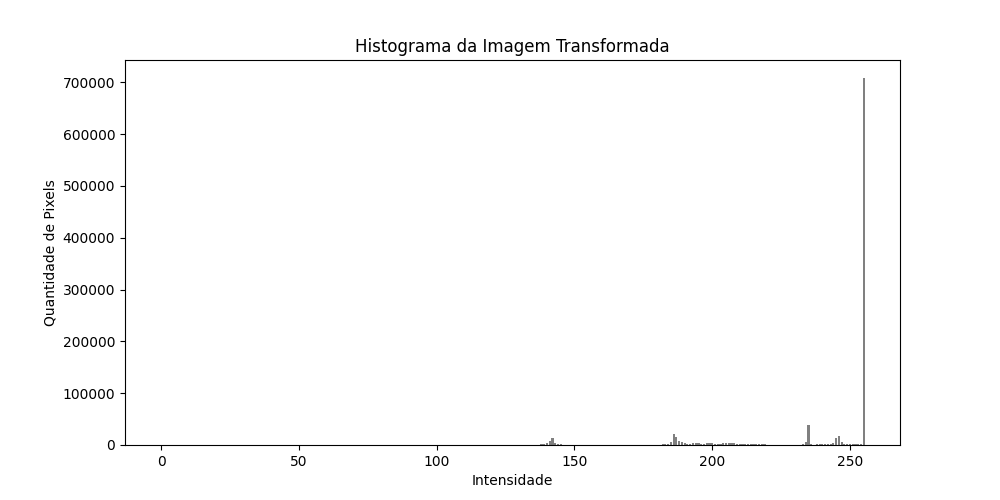
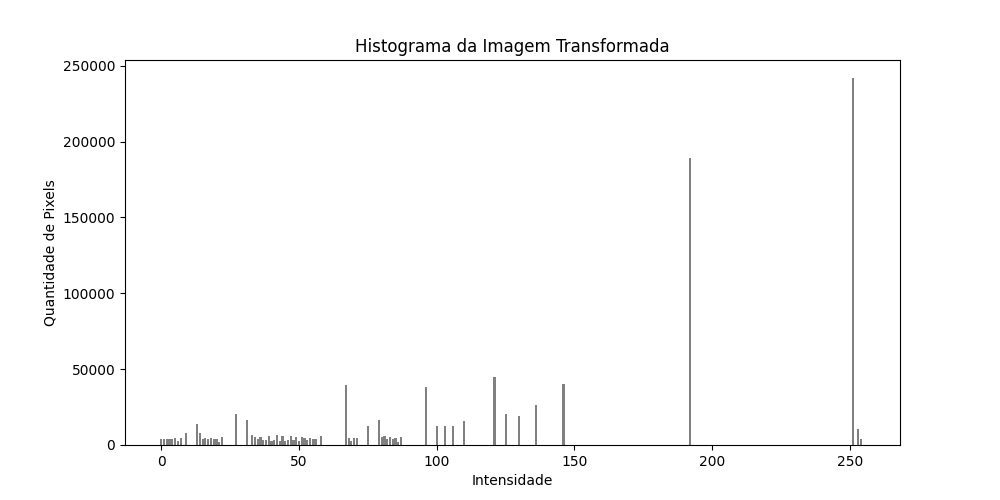
trab feito

diff --git a/Exercício 5/main.py b/Exercício 5/main.py
@@ -7,12 +7,13 @@ import sys
 INPUT_IMAGE = 'akari.png'
 OUTPUT_FOLDER = 'outputs'
 
-CONTRAST = 1
-BRIGHTNESS = 40
+CONTRAST = 1.01
+BRIGHTNESS = 0
+GRAY_LEVELS = 256
 
 
 def build_histogram(image: np.ndarray) -> np.ndarray:
-    histogram = np.zeros(256, int)
+    histogram = np.zeros(GRAY_LEVELS, int)
 
     height, width = image.shape
 
@@ -27,49 +28,88 @@ def plot_histogram(image: np.ndarray, output: str = None, text: str = None):
     histogram = build_histogram(image)
 
     plt.figure(figsize=(10, 5))
-    plt.bar(range(256), histogram, color='gray')
+    plt.bar(range(GRAY_LEVELS), histogram, color='gray')
     plt.xlabel('Intensidade')
     plt.ylabel('Quantidade de Pixels')
     plt.title(text)
     plt.savefig(f'{OUTPUT_FOLDER}/{output}.png')
 
 
-def transform_image(image: np.ndarray, contrast: float, brightness: int) -> np.ndarray:
+# def transform_image(image: np.ndarray, contrast: float, brightness: int) -> np.ndarray:
+#     height, width = image.shape
+#
+#     for x in range(height):
+#         for y in range(width):
+#             new_value = contrast * image[x][y] + brightness
+#             if new_value > GRAY_LEVELS - 1:
+#                 new_value = GRAY_LEVELS - 1
+#             image[x][y] = new_value
+#
+#     return image
+#
+#
+# def plot_transform_function(output: str, text: str, contrast: float, brightness: int):
+#     x = np.arange(GRAY_LEVELS)
+#     y = contrast * x + brightness
+#     for i in range(GRAY_LEVELS):
+#         y[i] = int(y[i])
+#         if y[i] > GRAY_LEVELS - 1:
+#             y[i] = GRAY_LEVELS - 1
+#
+#     plt.figure(figsize=(10, 5))
+#     plt.plot(x, y, color='gray')
+#     plt.xlabel('Níveis de cinza')
+#     plt.ylabel('Intensidade')
+#     plt.title(text)
+#     plt.savefig(f'{OUTPUT_FOLDER}/{output}.png')
+
+
+def build_transform_map(image: np.ndarray) -> np.ndarray:
+    histogram = build_histogram(image)
     height, width = image.shape
 
-    for x in range(height):
-        for y in range(width):
-            new_value = contrast * image[x][y] + brightness
-            if new_value > 255:
-                new_value = 255
-            image[x][y] = new_value
+    p_values = (histogram / (height * width))
 
-    return image
+    s_values = np.zeros(GRAY_LEVELS, float)
+
+    for i in range(GRAY_LEVELS):
+        s_values[i] = sum(p_values[:i + 1])
+
+    transform_map = np.zeros(GRAY_LEVELS, int)
+    for i in range(GRAY_LEVELS):
+        transform_map[i] = int(s_values[i] * (GRAY_LEVELS - 1))
+
+    return transform_map
 
 
-def plot_transform_function(output: str, text: str, contrast: float, brightness: int):
-    x = np.arange(256)
-    y = contrast * x + brightness
-    for i in range(256):
-        y[i] = int(y[i])
-        if y[i] > 255:
-            y[i] = 255
+def plot_transform_map(transform_map: np.ndarray, output: str, text: str):
+    x = np.arange(GRAY_LEVELS)
 
     plt.figure(figsize=(10, 5))
-    plt.plot(x, y, color='gray')
+    plt.plot(x, transform_map, color='gray')
     plt.xlabel('Níveis de cinza')
     plt.ylabel('Intensidade')
     plt.title(text)
     plt.savefig(f'{OUTPUT_FOLDER}/{output}.png')
 
+def transform_image(image: np.ndarray, transform_map: np.ndarray) -> np.ndarray:
+    height, width = image.shape
+
+    for x in range(height):
+        for y in range(width):
+            image[x][y] = transform_map[image[x][y]]
+
+    return image
 
 if __name__ == '__main__':
     input_image = cv.imread(INPUT_IMAGE, cv.IMREAD_GRAYSCALE)
 
     plot_histogram(input_image, 'original_hist', 'Histograma da Imagem Original')
 
-    transformed_image = transform_image(input_image, CONTRAST, BRIGHTNESS)
-    plot_transform_function('transform_function', 'Função de Transformação', CONTRAST, BRIGHTNESS)
+    transform_map = build_transform_map(input_image)
+    plot_transform_map(transform_map, 'transform_map', 'Função de Transformação')
 
+    transformed_image = transform_image(input_image, transform_map)
     plot_histogram(transformed_image, 'transformed_hist', 'Histograma da Imagem Transformada')
+
     cv.imwrite(f'{OUTPUT_FOLDER}/transformed_image.png', transformed_image)
